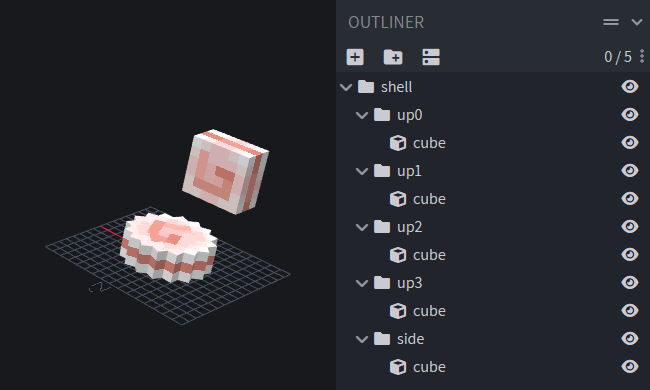
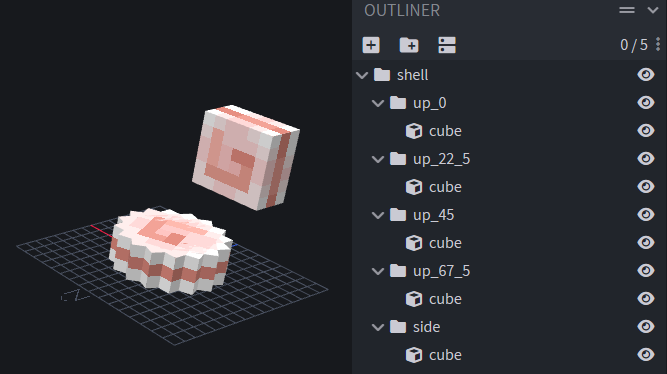
Update Head-Like Block Rotation Tutorial

diff --git a/docs/blocks/head-like-rotation.md b/docs/blocks/head-like-rotation.md
@@ -14,7 +14,7 @@ This tutorial guides you through making a block with proper head-like rotation (
 
 :::warning BEGINNERS BEWARE!
 
-This tutorial assumes good knowledge of [blocks 1.16.100+](/blocks/blocks-16), [advanced Molang](/documentation/advanced-molang) and creating models in applications such as [Blockbench](https://blockbench.net).
+This tutorial assumes good knowledge of [experimental blocks](/blocks/blocks-16), [advanced Molang](/documentation/advanced-molang) and creating models in applications such as [Blockbench](https://blockbench.net).
 
 :::
 
@@ -37,10 +37,10 @@ To allow for more specific rotation, your block's model will need a few extra bo
 
 There are 4 bones required for specific ground rotation, each with different Y axis rotations:
 
--   `up0` (Y rotation = 0)
--   `up1` (Y rotation = 22.5)
--   `up2` (Y rotation = 45)
--   `up3` (Y rotation = 67.5)
+-   `up_0` (Y rotation = 0)
+-   `up_22_5` (Y rotation = 22.5)
+-   `up_45` (Y rotation = 45)
+-   `up_67_5` (Y rotation = 67.5)
 
 **These rotations are in a clockwise direction.**
 
@@ -82,7 +82,7 @@ The following model for a "shell" block can be used as a reference:
           "pivot": [0, 0, 0]
         },
         {
-          "name": "up0",
+          "name": "up_0",
           "parent": "shell",
           "pivot": [0, 0, 0],
           "cubes": [
@@ -101,7 +101,7 @@ The following model for a "shell" block can be used as a reference:
           ]
         },
         {
-          "name": "up1",
+          "name": "up_22_5",
           "parent": "shell",
           "pivot": [0, 0, 0],
           "rotation": [0, 22.5, 0],
@@ -121,7 +121,7 @@ The following model for a "shell" block can be used as a reference:
           ]
         },
         {
-          "name": "up2",
+          "name": "up_45",
           "parent": "shell",
           "pivot": [0, 0, 0],
           "rotation": [0, 45, 0],
@@ -141,7 +141,7 @@ The following model for a "shell" block can be used as a reference:
           ]
         },
         {
-          "name": "up3",
+          "name": "up_67_5",
           "parent": "shell",
           "pivot": [0, 0, 0],
           "rotation": [0, 67.5, 0],
@@ -224,14 +224,11 @@ Below is the base "shell" block we will be adding advanced rotation to.
 			},
 			"minecraft:placement_filter": {
 				"conditions": [
-					{
-						// Prevent block from being placed on `down` face
-						"allowed_faces": [
-							"up",
-							"side"
-						]
-					}
-				]
+                    {
+                        // Prevent block from being placed on `down` face
+                        "allowed_faces": ["up", "side"]
+                    }
+                ]
 			}
 		}
 	}
@@ -245,7 +242,7 @@ For head-like rotation, you need to add 2 properties to your block's `descriptio
 ```json
 "properties": {
 	// Face block is placed on
-	"wiki:face": ["up", "north", "south", "west", "east"],
+	"wiki:face": [0, 1, 2, 3, 4],
 	// Specific rotation of block when placed on `up` face
 	"wiki:rotation": [0, 1, 2, 3, 4, 5, 6, 7, 8, 9, 10, 11, 12, 13, 14, 15]
 }
@@ -294,7 +291,7 @@ Create the following component and event in your block:
 	"wiki:set_placement": {
 		"set_block_property": {
 			// Set the face placed on
-			"wiki:face": "q.block_face == 2 ? 'north' : q.block_face == 3 ? 'south' : q.block_face == 4 ? 'west' : q.block_face == 5 ? 'east' : 'up'",
+			"wiki:face": "q.block_face - 1",
 			// Now use the long Molang expression from before to set the rotation property
 			"wiki:rotation": "q.block_face == 1 ? { t.positive_head_rot = q.head_y_rotation(0) + 360 * (q.head_y_rotation(0) != Math.abs(q.head_y_rotation(0))); t.block_rotation = Math.round(t.positive_head_rot / 22.5); return t.block_rotation != 16 ? t.block_rotation; };"
 		}
@@ -309,11 +306,11 @@ Not all bones in your model should be visible - that would look slightly unusual
 ```json
 "minecraft:part_visibility": {
 	"conditions": {
-		"up0": "q.block_property('wiki:face') == 'up' && (q.block_property('wiki:rotation') == 0 || q.block_property('wiki:rotation') == 4 || q.block_property('wiki:rotation') == 8 || q.block_property('wiki:rotation') == 12)",
-		"up1": "q.block_property('wiki:face') == 'up' && (q.block_property('wiki:rotation') == 1 || q.block_property('wiki:rotation') == 5 || q.block_property('wiki:rotation') == 9 || q.block_property('wiki:rotation') == 13)",
-		"up2": "q.block_property('wiki:face') == 'up' && (q.block_property('wiki:rotation') == 2 || q.block_property('wiki:rotation') == 6 || q.block_property('wiki:rotation') == 10 || q.block_property('wiki:rotation') == 14)",
-		"up3": "q.block_property('wiki:face') == 'up' && (q.block_property('wiki:rotation') == 3 || q.block_property('wiki:rotation') == 7 || q.block_property('wiki:rotation') == 11 || q.block_property('wiki:rotation') == 15)",
-		"side": "q.block_property('wiki:face') != 'up'"
+		"up_0": "!q.block_property('wiki:face') && (q.block_property('wiki:rotation') == 0 || q.block_property('wiki:rotation') == 4 || q.block_property('wiki:rotation') == 8 || q.block_property('wiki:rotation') == 12)",
+		"up_22_5": "!q.block_property('wiki:face') && (q.block_property('wiki:rotation') == 1 || q.block_property('wiki:rotation') == 5 || q.block_property('wiki:rotation') == 9 || q.block_property('wiki:rotation') == 13)",
+		"up_45": "!q.block_property('wiki:face')  && (q.block_property('wiki:rotation') == 2 || q.block_property('wiki:rotation') == 6 || q.block_property('wiki:rotation') == 10 || q.block_property('wiki:rotation') == 14)",
+		"up_67_5": "!q.block_property('wiki:face') && (q.block_property('wiki:rotation') == 3 || q.block_property('wiki:rotation') == 7 || q.block_property('wiki:rotation') == 11 || q.block_property('wiki:rotation') == 15)",
+		"side": "q.block_property('wiki:face')"
 	}
 }
 ```
@@ -327,19 +324,19 @@ Insert the following permutations into your block JSON (in the presented order):
 ```json
 "permutations": [
 	{
-		"condition": "(q.block_property('wiki:face') == 'up' && q.block_property('wiki:rotation') >= 4) || q.block_property('wiki:face') == 'east'",
+		"condition": "(!q.block_property('wiki:face') && q.block_property('wiki:rotation') >= 4) || q.block_property('wiki:face') == 4",
 		"components": {
 			"minecraft:rotation": [0, -90, 0]
 		}
 	},
 	{
-		"condition": "(q.block_property('wiki:face') == 'up' && q.block_property('wiki:rotation') >= 8) || q.block_property('wiki:face') == 'south'",
+		"condition": "(!q.block_property('wiki:face') && q.block_property('wiki:rotation') >= 8) || q.block_property('wiki:face') == 2",
 		"components": {
 			"minecraft:rotation": [0, 180, 0]
 		}
 	},
 	{
-		"condition": "(q.block_property('wiki:face') == 'up' && q.block_property('wiki:rotation') >= 12) || q.block_property('wiki:face') == 'west'",
+		"condition": "(!q.block_property('wiki:face') && q.block_property('wiki:rotation') >= 12) || q.block_property('wiki:face') == 3",
 		"components": {
 			"minecraft:rotation": [0, 90, 0]
 		}
@@ -353,7 +350,7 @@ If you would like your block to have a different collision/selection box when pl
 "permutations": [
 	...
 	{
-		"condition": "q.block_property('wiki:face') != 'up'",
+		"condition": "q.block_property('wiki:face')",
 		"components": {
 			"minecraft:collision_box": {
 				"origin": [-3, 5, 5],
@@ -378,98 +375,95 @@ Our block JSON file after the above steps should look similar to the code below:
 
 ```json
 {
-	"format_version": "1.19.60",
-	"minecraft:block": {
-		"description": {
-			"identifier": "wiki:shell",
-			"menu_category": {
-				"category": "nature"
-			},
-			"properties": {
-				"wiki:face": ["up", "north", "south", "west", "east"],
-				"wiki:rotation": [0, 1, 2, 3, 4, 5, 6, 7, 8, 9, 10, 11, 12, 13, 14, 15]
-			}
-		},
-		"components": {
-			"minecraft:collision_box": {
-				"origin": [-3, 0, -3],
-				"size": [6, 3, 6]
-			},
-			"minecraft:selection_box": {
-				"origin": [-3, 0, -3],
-				"size": [6, 3, 6]
-			},
-			"minecraft:geometry": "geometry.shell",
-			"minecraft:material_instances": {
-				"*": {
-					"texture": "shell"
-				}
-			},
-			"minecraft:placement_filter": {
-				"conditions": [
-					{
-						"allowed_faces": [
-							"up",
-							"side"
-						]
-					}
-				]
-			},
-			"minecraft:on_player_placing": {
-				"event": "wiki:set_placement"
-			},
-			"minecraft:part_visibility": {
-				"conditions": {
-					"up0": "q.block_property('wiki:face') == 'up' && (q.block_property('wiki:rotation') == 0 || q.block_property('wiki:rotation') == 4 || q.block_property('wiki:rotation') == 8 || q.block_property('wiki:rotation') == 12)",
-					"up1": "q.block_property('wiki:face') == 'up' && (q.block_property('wiki:rotation') == 1 || q.block_property('wiki:rotation') == 5 || q.block_property('wiki:rotation') == 9 || q.block_property('wiki:rotation') == 13)",
-					"up2": "q.block_property('wiki:face') == 'up' && (q.block_property('wiki:rotation') == 2 || q.block_property('wiki:rotation') == 6 || q.block_property('wiki:rotation') == 10 || q.block_property('wiki:rotation') == 14)",
-					"up3": "q.block_property('wiki:face') == 'up' && (q.block_property('wiki:rotation') == 3 || q.block_property('wiki:rotation') == 7 || q.block_property('wiki:rotation') == 11 || q.block_property('wiki:rotation') == 15)",
-					"side": "q.block_property('wiki:face') != 'up'"
-				}
-			}
-		},
-		"events": {
-			"wiki:set_placement": {
-				"set_block_property": {
-					"wiki:face": "q.block_face == 2 ? 'north' : q.block_face == 3 ? 'south' : q.block_face == 4 ? 'west' : q.block_face == 5 ? 'east' : 'up'",
-					"wiki:rotation": "q.block_face == 1 ? { t.positive_head_rot = q.head_y_rotation(0) + 360 * (q.head_y_rotation(0) != Math.abs(q.head_y_rotation(0))); t.block_rotation = Math.round(t.positive_head_rot / 22.5); return t.block_rotation != 16 ? t.block_rotation; };"
-				}
-			}
-		},
-		"permutations": [
-			{
-				"condition": "(q.block_property('wiki:face') == 'up' && q.block_property('wiki:rotation') >= 4) || q.block_property('wiki:face') == 'east'",
-				"components": {
-					"minecraft:rotation": [0, -90, 0]
-				}
-			},
-			{
-				"condition": "(q.block_property('wiki:face') == 'up' && q.block_property('wiki:rotation') >= 8) || q.block_property('wiki:face') == 'south'",
-				"components": {
-					"minecraft:rotation": [0, 180, 0]
-				}
-			},
-			{
-				"condition": "(q.block_property('wiki:face') == 'up' && q.block_property('wiki:rotation') >= 12) || q.block_property('wiki:face') == 'west'",
-				"components": {
-					"minecraft:rotation": [0, 90, 0]
-				}
-			},
-			{
-				"condition": "q.block_property('wiki:face') != 'up'",
-				"components": {
-					"minecraft:collision_box": {
-						"origin": [-3, 5, 5],
-						"size": [6, 6, 3]
-					},
-					"minecraft:selection_box": {
-						"origin": [-3, 5, 5],
-						"size": [6, 6, 3]
-					}
-				}
-			}
-		]
-	}
+  "format_version": "1.19.60",
+  "minecraft:block": {
+    "description": {
+      "identifier": "wiki:shell",
+      "menu_category": {
+        "category": "nature"
+      },
+      "properties": {
+        "wiki:face": [0, 1, 2, 3, 4],
+        "wiki:rotation": [0, 1, 2, 3, 4, 5, 6, 7, 8, 9, 10, 11, 12, 13, 14, 15]
+      }
+    },
+    "components": {
+      "minecraft:collision_box": {
+        "origin": [-3, 0, -3],
+        "size": [6, 3, 6]
+      },
+      "minecraft:selection_box": {
+        "origin": [-3, 0, -3],
+        "size": [6, 3, 6]
+      },
+      "minecraft:geometry": "geometry.shell",
+      "minecraft:material_instances": {
+        "*": {
+          "texture": "shell"
+        }
+      },
+      "minecraft:placement_filter": {
+        "conditions": [
+          {
+            "allowed_faces": ["up", "side"]
+          }
+        ]
+      },
+      "minecraft:on_player_placing": {
+        "event": "wiki:set_placement"
+      },
+      "minecraft:part_visibility": {
+        "conditions": {
+          "up_0": "!q.block_property('wiki:face') && (q.block_property('wiki:rotation') == 0 || q.block_property('wiki:rotation') == 4 || q.block_property('wiki:rotation') == 8 || q.block_property('wiki:rotation') == 12)",
+          "up_22_5": "!q.block_property('wiki:face') && (q.block_property('wiki:rotation') == 1 || q.block_property('wiki:rotation') == 5 || q.block_property('wiki:rotation') == 9 || q.block_property('wiki:rotation') == 13)",
+          "up_45": "!q.block_property('wiki:face') && (q.block_property('wiki:rotation') == 2 || q.block_property('wiki:rotation') == 6 || q.block_property('wiki:rotation') == 10 || q.block_property('wiki:rotation') == 14)",
+          "up_67_5": "!q.block_property('wiki:face') && (q.block_property('wiki:rotation') == 3 || q.block_property('wiki:rotation') == 7 || q.block_property('wiki:rotation') == 11 || q.block_property('wiki:rotation') == 15)",
+          "side": "q.block_property('wiki:face')"
+        }
+      }
+    },
+    "events": {
+      "wiki:set_placement": {
+        "set_block_property": {
+          "wiki:face": "q.block_face - 1",
+          "wiki:rotation": "q.block_face == 1 ? { t.positive_head_rot = q.head_y_rotation(0) + 360 * (q.head_y_rotation(0) != Math.abs(q.head_y_rotation(0))); t.block_rotation = Math.round(t.positive_head_rot / 22.5); return t.block_rotation != 16 ? t.block_rotation; };"
+        }
+      }
+    },
+    "permutations": [
+      {
+        "condition": "(!q.block_property('wiki:face') && q.block_property('wiki:rotation') >= 4) || q.block_property('wiki:face') == 4",
+        "components": {
+          "minecraft:rotation": [0, -90, 0]
+        }
+      },
+      {
+        "condition": "(!q.block_property('wiki:face') && q.block_property('wiki:rotation') >= 8) || q.block_property('wiki:face') == 2",
+        "components": {
+          "minecraft:rotation": [0, 180, 0]
+        }
+      },
+      {
+        "condition": "(!q.block_property('wiki:face') && q.block_property('wiki:rotation') >= 12) || q.block_property('wiki:face') == 3",
+        "components": {
+          "minecraft:rotation": [0, 90, 0]
+        }
+      },
+      {
+        "condition": "q.block_property('wiki:face')",
+        "components": {
+          "minecraft:collision_box": {
+            "origin": [-3, 5, 5],
+            "size": [6, 6, 3]
+          },
+          "minecraft:selection_box": {
+            "origin": [-3, 5, 5],
+            "size": [6, 6, 3]
+          }
+        }
+      }
+    ]
+  }
 }
 ```
 </Spoiler>
